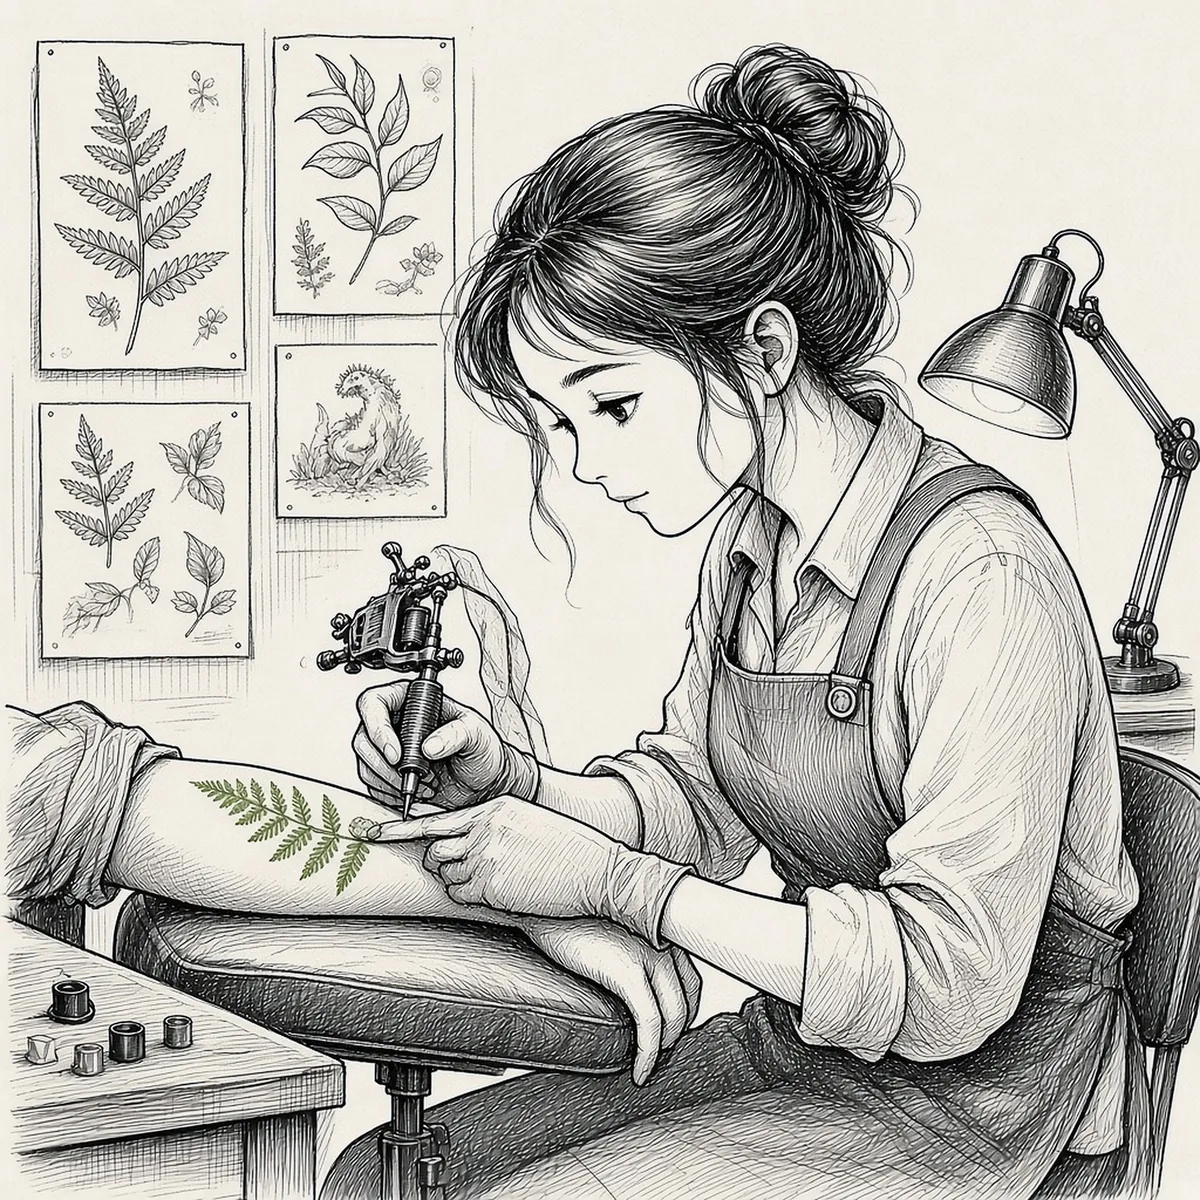
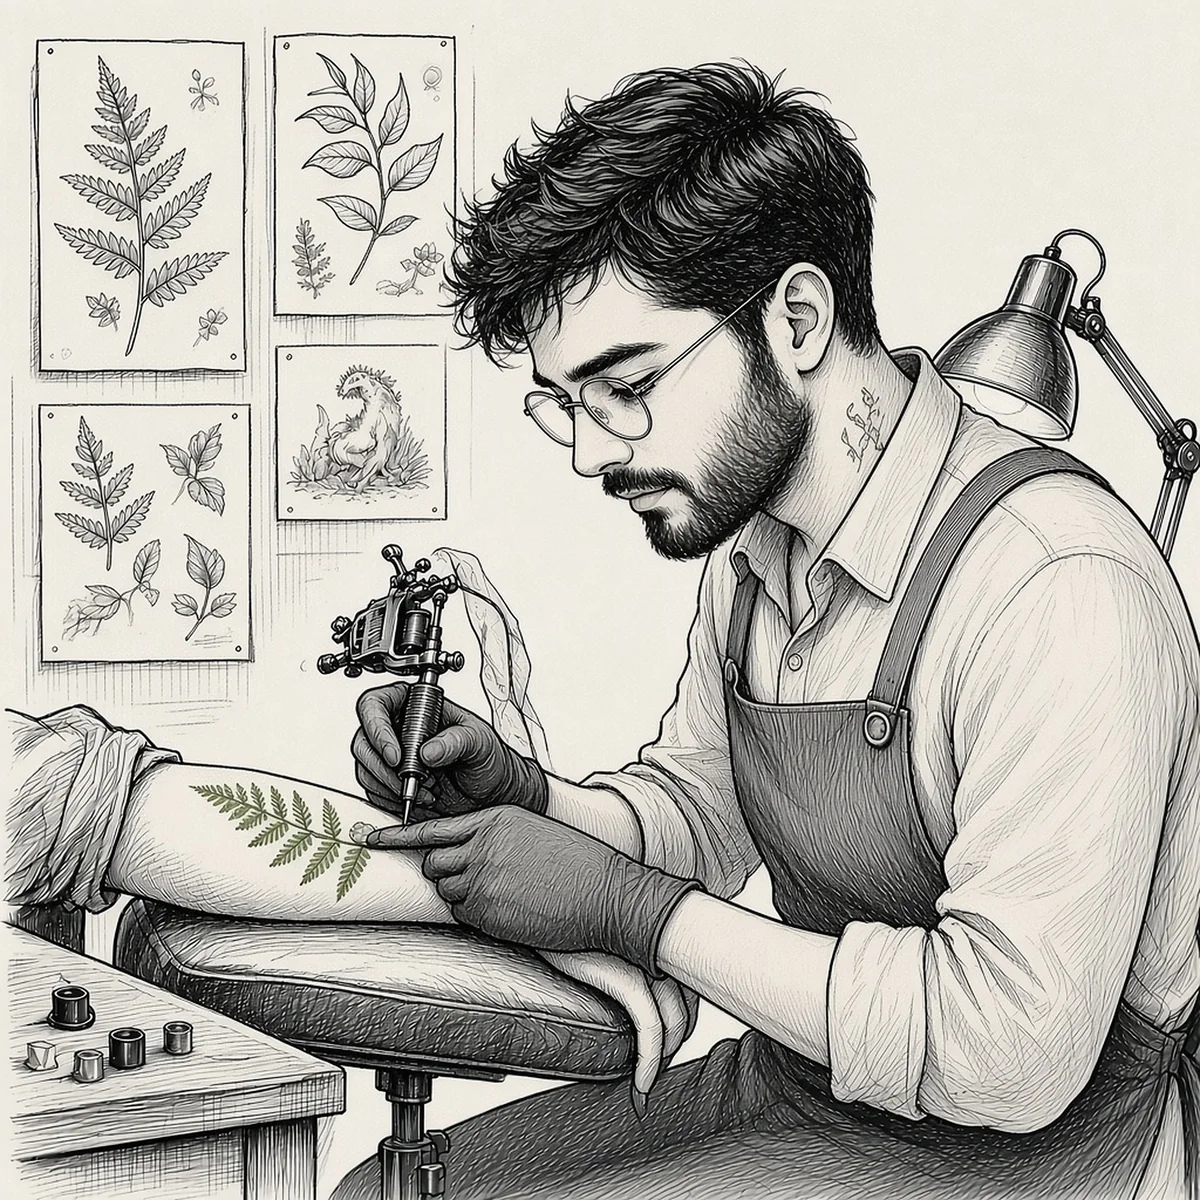
feat(artes): ilustración 01 de Rö y línea Ghibli-tech
Sustituye el arte de la tarjeta 01 por Rö tatuando, añade «Grabado estilo Ghibli · café, tech, física, ciencias» con Flash $15.000 (sin «desde») y alinea números, precio y CTA a la paleta Design System v1 (#000/#FFF/#333/#F5F0E8).

diff --git a/components/artes-section.tsx b/components/artes-section.tsx
@@ -5,7 +5,7 @@ import { withBasePath } from "@/lib/site-path";
 
 /**
  * Las cuatro artes del estudio, en el orden del flyer.
- * Texto en crema: #333 y verde botánico #245D3C (AA). Nunca #3D9461 sobre #F5F0E8.
+ * Texto en crema #F5F0E8: negro #000 y gris #333 (Design System v1). Nunca #3D9461 sobre #F5F0E8.
  */
 const ARTES = [
   {
@@ -13,7 +13,7 @@ const ARTES = [
     number: "01",
     title: "Tatuaje",
     description:
-      "Dibujo permanente sobre la piel, con motivos botánicos y tiempo para cuidar el proceso.",
+      "Grabado estilo Ghibli · café, tech, física, ciencias",
     price: "Flash $15.000",
     safety: "Material estéril, un solo uso",
     src: "/img/artes/01-tatuaje.webp",
@@ -65,7 +65,7 @@ export function ArtesSection() {
             sigue la agenda del sitio.
           </Text>
         </div>
-        <figure className="overflow-hidden rounded-2xl border border-[#245D3C]/40 bg-[#F5F0E8]">
+        <figure className="overflow-hidden rounded-2xl border border-[#000000]/40 bg-[#F5F0E8]">
           <img
             src={withBasePath("/img/artes/hero-estudio.webp")}
             alt="Ilustración del estudio: un autómata con plantas sostiene musgo junto a un zorro, una cámara, un rollo de cuerda y una máquina de tatuar."
@@ -93,7 +93,7 @@ export function ArtesSection() {
                 className="aspect-square w-full object-cover"
               />
               <div className="flex flex-1 flex-col p-5 sm:p-6">
-                <p className="text-sm font-semibold tracking-[0.22em] text-[#245D3C]">
+                <p className="text-sm font-semibold tracking-[0.22em] text-[#000000]">
                   <span className="sr-only">Módulo </span>
                   {arte.number}
                 </p>
@@ -107,12 +107,12 @@ export function ArtesSection() {
                 <p className="mt-2 text-sm leading-relaxed text-[#333333]">{arte.description}</p>
                 <div className="mt-auto pt-4">
                   {"price" in arte ? (
-                    <p className="mb-3 text-sm font-medium text-[#245D3C]">
+                    <p className="mb-3 text-sm font-medium text-[#000000]">
                       <span className="sr-only">Precio: </span>
                       {arte.price}
                     </p>
                   ) : null}
-                  <p className="border-t border-[#245D3C]/35 pt-3 text-sm font-medium text-[#245D3C]">
+                  <p className="border-t border-[#000000]/35 pt-3 text-sm font-medium text-[#000000]">
                     <span className="sr-only">Cuidado: </span>
                     {arte.safety}
                   </p>
@@ -124,7 +124,7 @@ export function ArtesSection() {
       </ul>
 
       <div className="mt-8 text-center sm:mt-10">
-        <ButtonLink href="#reserva" variant="botanical" size="lg">
+        <ButtonLink href="#reserva" variant="brand" size="lg">
           Reservar una sesión
         </ButtonLink>
       </div>
